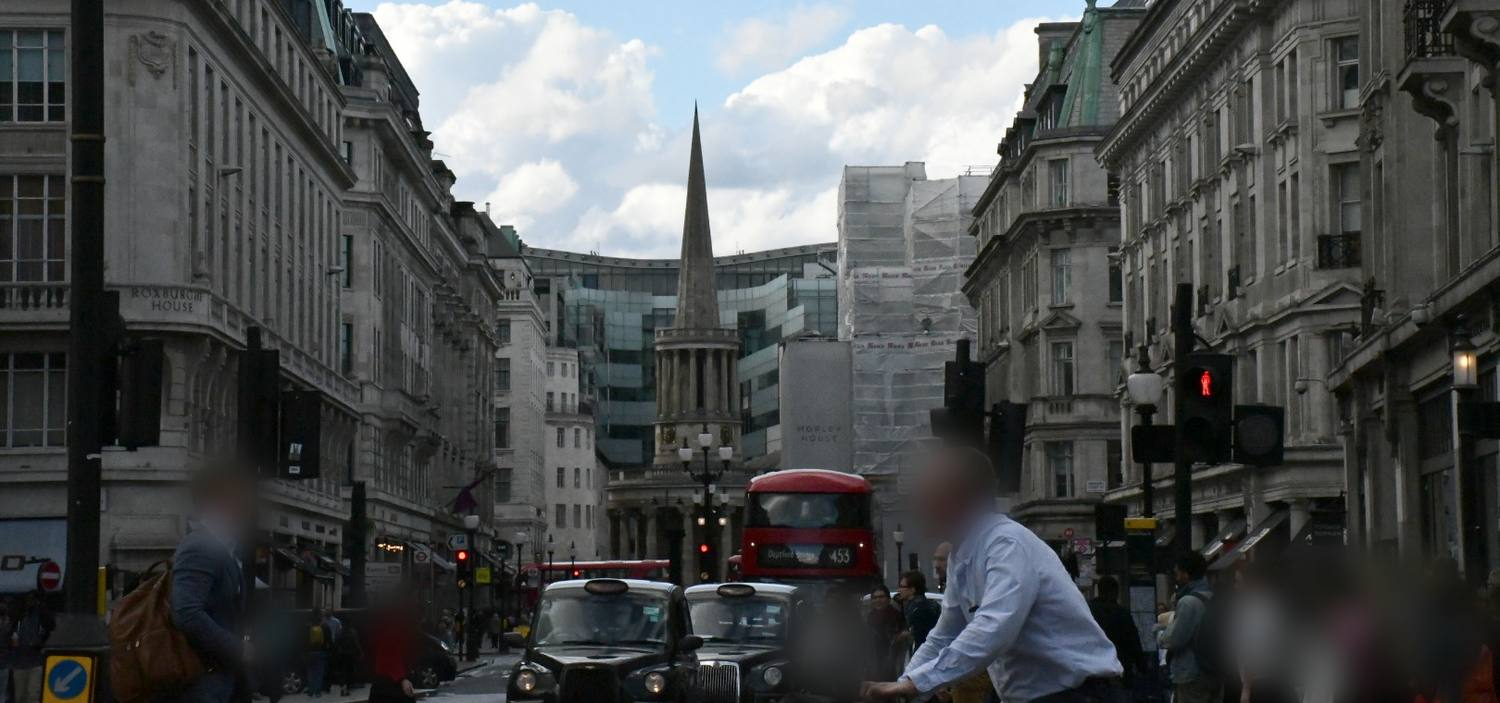
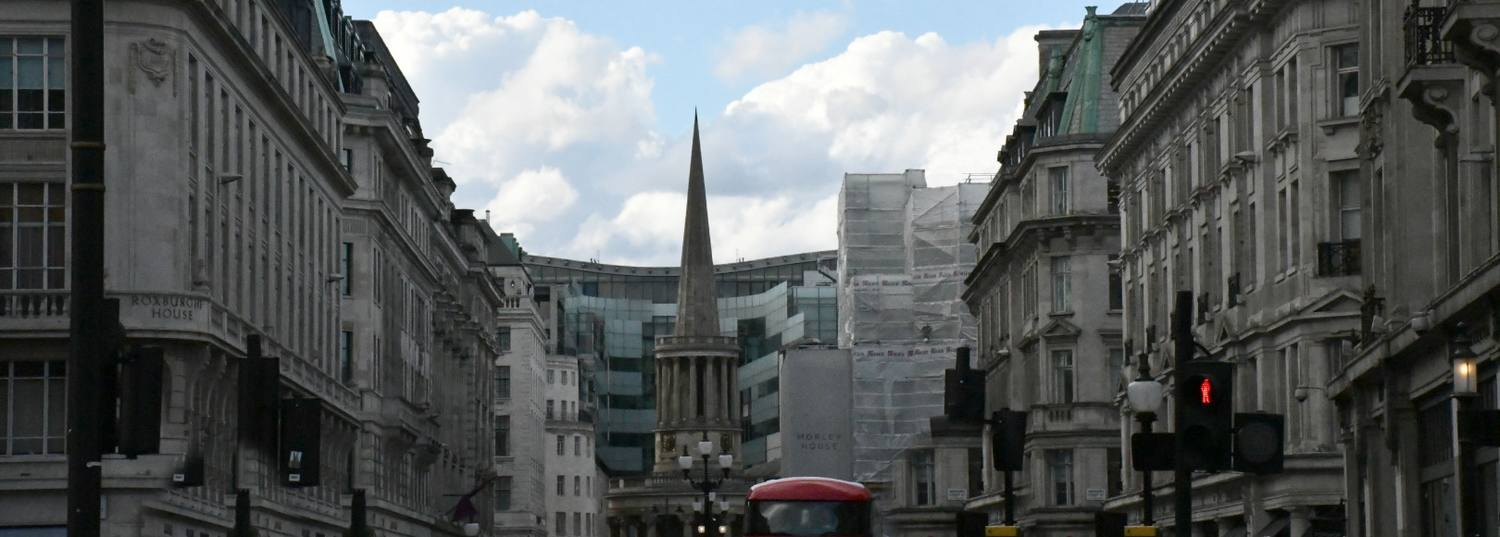
フッターの写真から手前の通行人を消去

diff --git a/assets/css/style.css b/assets/css/style.css
@@ -517,7 +517,7 @@ main::before {
 /* ロンドンの写真を薄く敷く。上端はぼかして、手前の区切りとつなげる */
 .site-footer::before {
   content: ""; position: absolute; z-index: -1; inset: 0; opacity: .25;
-  background: url("../../images/london-regent-street.jpg") center 86% / cover no-repeat;
+  background: url("../../images/london-regent-street.jpg") center 100% / cover no-repeat;
   -webkit-mask-image: linear-gradient(to bottom, transparent 0, #000 150px);
   mask-image: linear-gradient(to bottom, transparent 0, #000 150px);
 }
